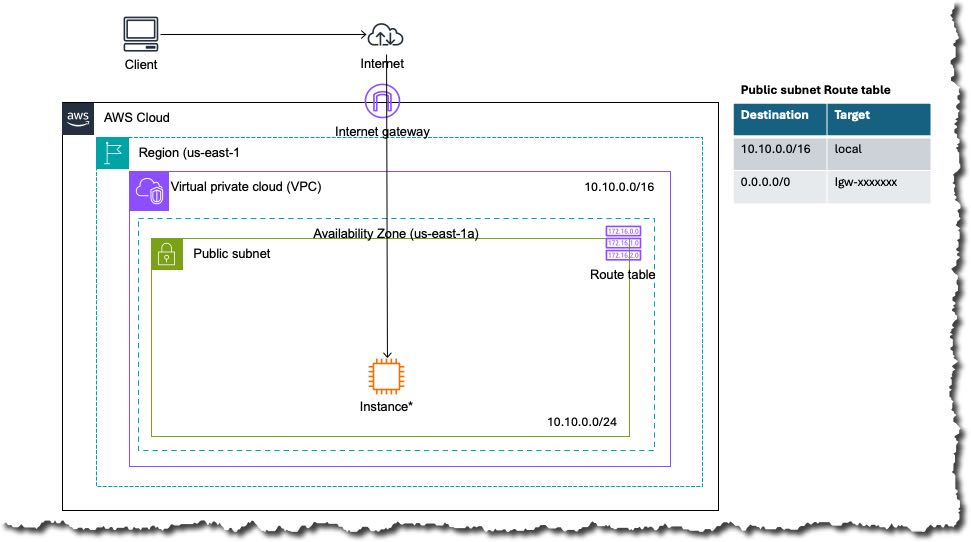
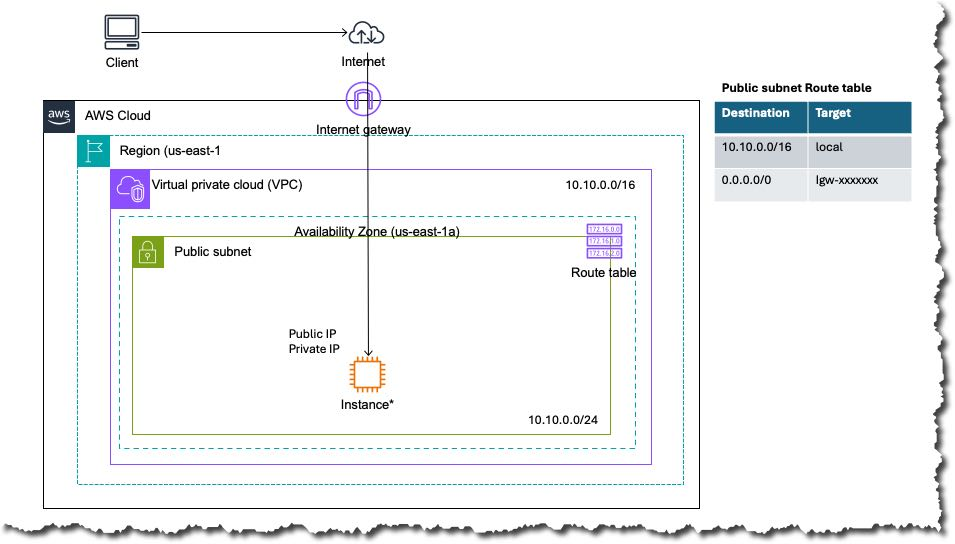
feat: update CI workflow, enhance README, fix parameters, and modify CloudFormation templates

Changed region(s): [[0.0, 0.0, 1.0, 1.0], [0.3644, 0.6494, 0.4251, 0.7675], [0.3037, 0.5904, 0.3644, 0.6494]]

diff --git a/README.md b/README.md
@@ -30,9 +30,9 @@ The diagram shows the default lab values from `cloudformation/parameters.json`:
 - **Internet gateway:** attached to the VPC
 - **Route table:** `10.10.0.0/16 → local` and `0.0.0.0/0 → igw-xxxxxx`, associated with the public subnet
 - **Security group:** allows inbound SSH from the internet
-- **EC2 instance:** launched in the public subnet with a public IP address
+- **EC2 instance:** launched in the public subnet via the nested EC2 stack (private IP only, since the nested template does not export a public IP)
 
-Traffic path: the user connects over SSH to the EC2 instance's public IP. The security group admits the connection, and the route table sends return traffic through the internet gateway.
+Traffic path: the EC2 instance sits in the public subnet, whose route table sends traffic through the internet gateway. The security group admits SSH from `0.0.0.0/0`. The root stack exports only the instance's private IP, so SSH from outside the VPC needs a different route to the instance.
 
 ## Repository Layout
 
@@ -56,7 +56,7 @@ The root template (`cloudformation/template.yaml`) creates these resources. The 
 | `VpcNestedStack` | Nested stack | `cfn-nested-aws-vpc/template.yaml` | VPC with DNS support and hostnames, and an internet gateway |
 | `PublicSubnetsNestedStack` | Nested stack | `cfn-nested-aws-subnets/template.yaml` | One public subnet in `us-east-1a` with a default route to the internet gateway |
 | `WebSecurityGroupNestedStack` | Nested stack | `cfn-nested-aws-ec2-security-group/template.yaml` | SSH-only security group (inbound TCP 22 from `0.0.0.0/0`) |
-| `EC2Instance` | Resource | — | EC2 instance in the public subnet with a public IP |
+| `Ec2Instance` | Nested stack | `cfn-nested-aws-ec2-instance/template.yaml` | EC2 instance in the public subnet, with the web security group and the key pair from `KeyPairName` |
 
 ## Parameters
 
@@ -81,7 +81,7 @@ The lab values in `cloudformation/parameters.json` override some defaults (for e
 | Output | Description |
 | --- | --- |
 | `EC2InstanceId` | ID of the EC2 instance |
-| `EC2InstancePublicIp` | Public IP address of the EC2 instance |
+| `EC2InstancePrivateIp` | Private IP address of the EC2 instance (the nested EC2 template does not export a public IP) |
 | `VpcId` | ID of the VPC |
 | `InternetGatewayId` | ID of the internet gateway |
 | `PublicSubnet1Arn` | ARN of the public subnet |
@@ -91,7 +91,7 @@ The lab values in `cloudformation/parameters.json` override some defaults (for e
 ## Prerequisites
 
 - An AWS account and credentials for the AWS CLI
-- An S3 bucket in `us-east-1` containing the three nested templates listed above, and read access for the deploying principal
+- An S3 bucket in `us-east-1` containing the four nested templates listed above, and read access for the deploying principal
 - An existing EC2 key pair in the target region, for SSH access
 
 ## Deploy
@@ -113,16 +113,16 @@ aws cloudformation wait stack-create-complete \
   --region us-east-1
 ```
 
-Get the public IP and connect:
+Get the private IP (reachable only from inside the VPC) and connect:
 
 ```bash
-PUBLIC_IP=$(aws cloudformation describe-stacks \
+PRIVATE_IP=$(aws cloudformation describe-stacks \
   --stack-name aws-lab01-vpc-single-public-subnet \
-  --query 'Stacks[0].Outputs[?OutputKey==`EC2InstancePublicIp`].OutputValue' \
+  --query 'Stacks[0].Outputs[?OutputKey==`EC2InstancePrivateIp`].OutputValue' \
   --output text \
   --region us-east-1)
 
-ssh -i <path-to-key>.pem ec2-user@$PUBLIC_IP
+ssh -i <path-to-key>.pem ec2-user@$PRIVATE_IP
 ```
 
 ## Clean Up
